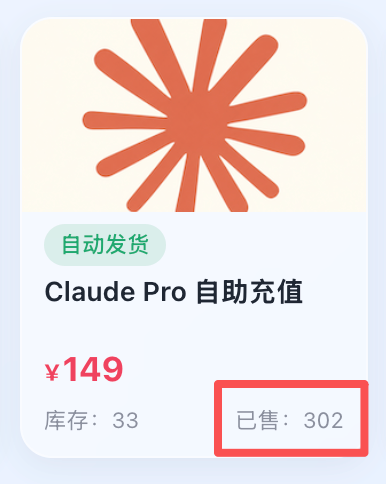
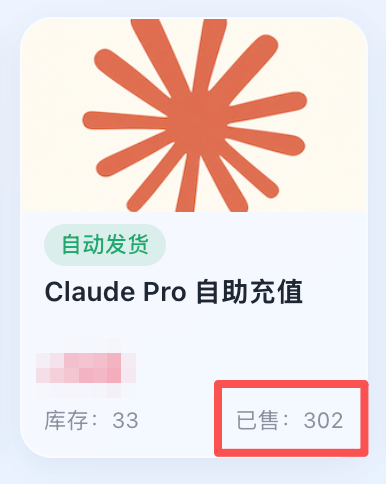
docs: 英文/俄文 README 同步中文改动，销量截图价格打码

Changed region(s): [[0.0933, 0.7128, 0.342, 0.8058]]

diff --git a/README.ru.md b/README.ru.md
@@ -4,7 +4,7 @@
 
 > **Руководство по оплате Claude Pro** для пользователей без международной банковской карты: оформите заказ и оплатите через WeChat Pay / USDT на универсальном сайте пополнения **[oksub.net](https://oksub.net/claude)**, а затем **самостоятельно пополните** и **повысьте свой аккаунт Claude до подписки Pro**. В статье разобран весь процесс в **картинках и видео** — заказ и оплата, копирование Organization ID, отправка пополнения и подтверждение статуса Pro. Нужно лишь скопировать **Organization ID** вашего аккаунта; пароль не требуется, история чатов сохраняется, а подписка имеет гарантию 30 дней (блокировка аккаунта в гарантию не входит).
 >
-> 📅 Последнее обновление: октябрь 2026
+> 📅 Последнее обновление: ноябрь 2026
 
 ## 🎬 Видеоурок (полный процесс, ~30 секунд)
 
@@ -16,26 +16,13 @@ https://github.com/user-attachments/assets/3ea58cb9-f0cb-459a-aff9-b6bb22c8eaaa
 
 ---
 
-## 🔗 Быстрые ссылки
-
-> ### ‼ Совет: получайте код подтверждения для входа в Claude через 📮 ссылку приёма кодов, чтобы снизить риск блокировки! ‼
->
-> **Обычный аккаунт Claude со своей ссылкой приёма кодов можно купить в [магазине (store.ai-headshot.net/item/9)](https://store.ai-headshot.net/item/9).**
->
-> Более подробные советы о том, как избежать блокировки аккаунта, см. в [руководстве по предотвращению блокировки Claude](https://github.com/sunreview/anti-claude).
-
-| Назначение                     | Адрес                                |
-| ------------------------------ | ------------------------------------ |
-| 💳 Заказ + самопополнение Claude Pro (всё в одном) | https://oksub.net/claude |
-| 🔍 Поиск заказа                 | https://oksub.net/orders |
-
----
-
 ## 📋 Ключевая информация кратко
 
 | Пункт | Описание |
 | --- | --- |
 | Для кого | Пользователи, у которых уже есть свой аккаунт Claude, но нет международной банковской карты |
+| Цена | **Pro ¥159/мес** (официально $20) · **Max 5x ¥849/мес** (официально $100) · **Max 20x ¥1799/мес** (официально $200); актуальные цены — на [oksub.net](https://oksub.net/claude) |
+| Подключение | Pro: самостоятельное пополнение после оплаты, за несколько минут; Max 5x / 20x: подключает поддержка после оплаты |
 | Способ пополнения | Заказ и оплата на oksub.net (WeChat Pay / USDT) + Organization ID, самостоятельное пополнение с повышением вашего аккаунта до Pro |
 | Требование к аккаунту | Аккаунт должен быть Free (без действующей подписки Pro / Max); пополнение поверх действующего плана не поддерживается |
 | Что вы предоставляете | Только Organization ID вашего аккаунта — без пароля и кода из письма |
@@ -44,7 +31,11 @@ https://github.com/user-attachments/assets/3ea58cb9-f0cb-459a-aff9-b6bb22c8eaaa
 | Где работает | Pro работает в вебе, десктопе и мобильных приложениях, а также в Claude Code |
 | Сколько времени | ~30 секунд на видео; на практике 5 шагов |
 | Гарантия | Гарантия на подписку 30 дней; если подписка слетит — напишите в поддержку. Блокировка аккаунта в гарантию не входит |
+| Счёт / фапяо | Выставляем официальные счета (фапяо) — после оплаты напишите в поддержку и укажите реквизиты |
+| Опыт | Выполнено 300+ заказов |
 | Поддержка | WeChat `gracereview618`, Telegram `@aispace_kefu`, эл. почта 1402709211@qq.com |
+
+<p align="center"><img src="./oksub-sold-302.png" alt="Самопополнение Claude Pro: продано 302" width="260"><br><sub>Самопополнение Claude Pro: продано 300+</sub></p>
 
 ## 📌 Ответ в одном предложении: как оплатить Claude Pro без международной карты?
 
@@ -74,7 +65,7 @@ Claude силён в программировании, анализе длинн
 
 Если аккаунта Claude Free ещё нет, его можно купить в магазине:
 
-👉 https://store.ai-headshot.net/item/9
+👉 https://store.ai-headshot.net/item/7
 
 ### ✅ У вас нет удобной международной карты
 
@@ -104,20 +95,23 @@ Claude силён в программировании, анализе длинн
 
 Если аккаунта Claude Free ещё нет, его можно купить в магазине:
 
-👉 https://store.ai-headshot.net/item/9
+👉 https://store.ai-headshot.net/item/7
 
 ### ③ Будьте готовы обновить страницу и подтвердить результат
 
 После пополнения нужно вернуться в Claude и обновить страницу — при необходимости войти заново — чтобы подтвердить, что статус подписки обновился.
 
+### ④ Снизьте риск блокировки (настоятельно рекомендуется)
+
+> ‼ Совет: получайте код подтверждения для входа в Claude через 📮 ссылку приёма кодов, чтобы снизить риск блокировки! ‼
+>
+> Более подробные советы о том, как избежать блокировки аккаунта, см. в [руководстве по предотвращению блокировки Claude](https://github.com/sunreview/anti-claude).
+
 ---
 
 ## 4. 🖼 Пошаговые действия с картинками (5 шагов)
 
-Ниже — основной процесс. Посмотрев видео выше, разверните полные шаги с картинками, если хотите перепроверить детали.
-
-<details>
-<summary>📖 Нажмите, чтобы развернуть полные шаги с картинками (5 шагов)</summary>
+Ниже — основной процесс. Посмотрев видео выше, выполняйте шаги с картинками ниже по порядку.
 
 ### Шаг 1: Войдите в аккаунт Claude, который хотите пополнить 👤
 
@@ -206,8 +200,6 @@ Claude силён в программировании, анализе длинн
 
 На этом весь процесс самопополнения Claude Pro завершён. 🎊
 
-</details>
-
 ---
 
 ## 5. ❓ Частые вопросы по пополнению Claude Pro (FAQ)
@@ -265,6 +257,10 @@ Max 5x / 20x оформляет поддержка вручную: после о
 ### В12: Где посмотреть заказ?
 
 После оплаты ссылка на страницу заказа приходит на email, указанный при заказе; также можно ввести номер заказа или email на странице [поиска заказа](https://oksub.net/orders).
+
+### В13: Можно ли получить счёт (фапяо)?
+
+Да. Мы выставляем официальные счета (фапяо) и уже выставляли их нескольким клиентам. После оплаты напишите в поддержку (WeChat **gracereview618** / Telegram **@aispace_kefu**), укажите номер заказа и реквизиты (название, ИНН и т. д.).
 
 ---
 
